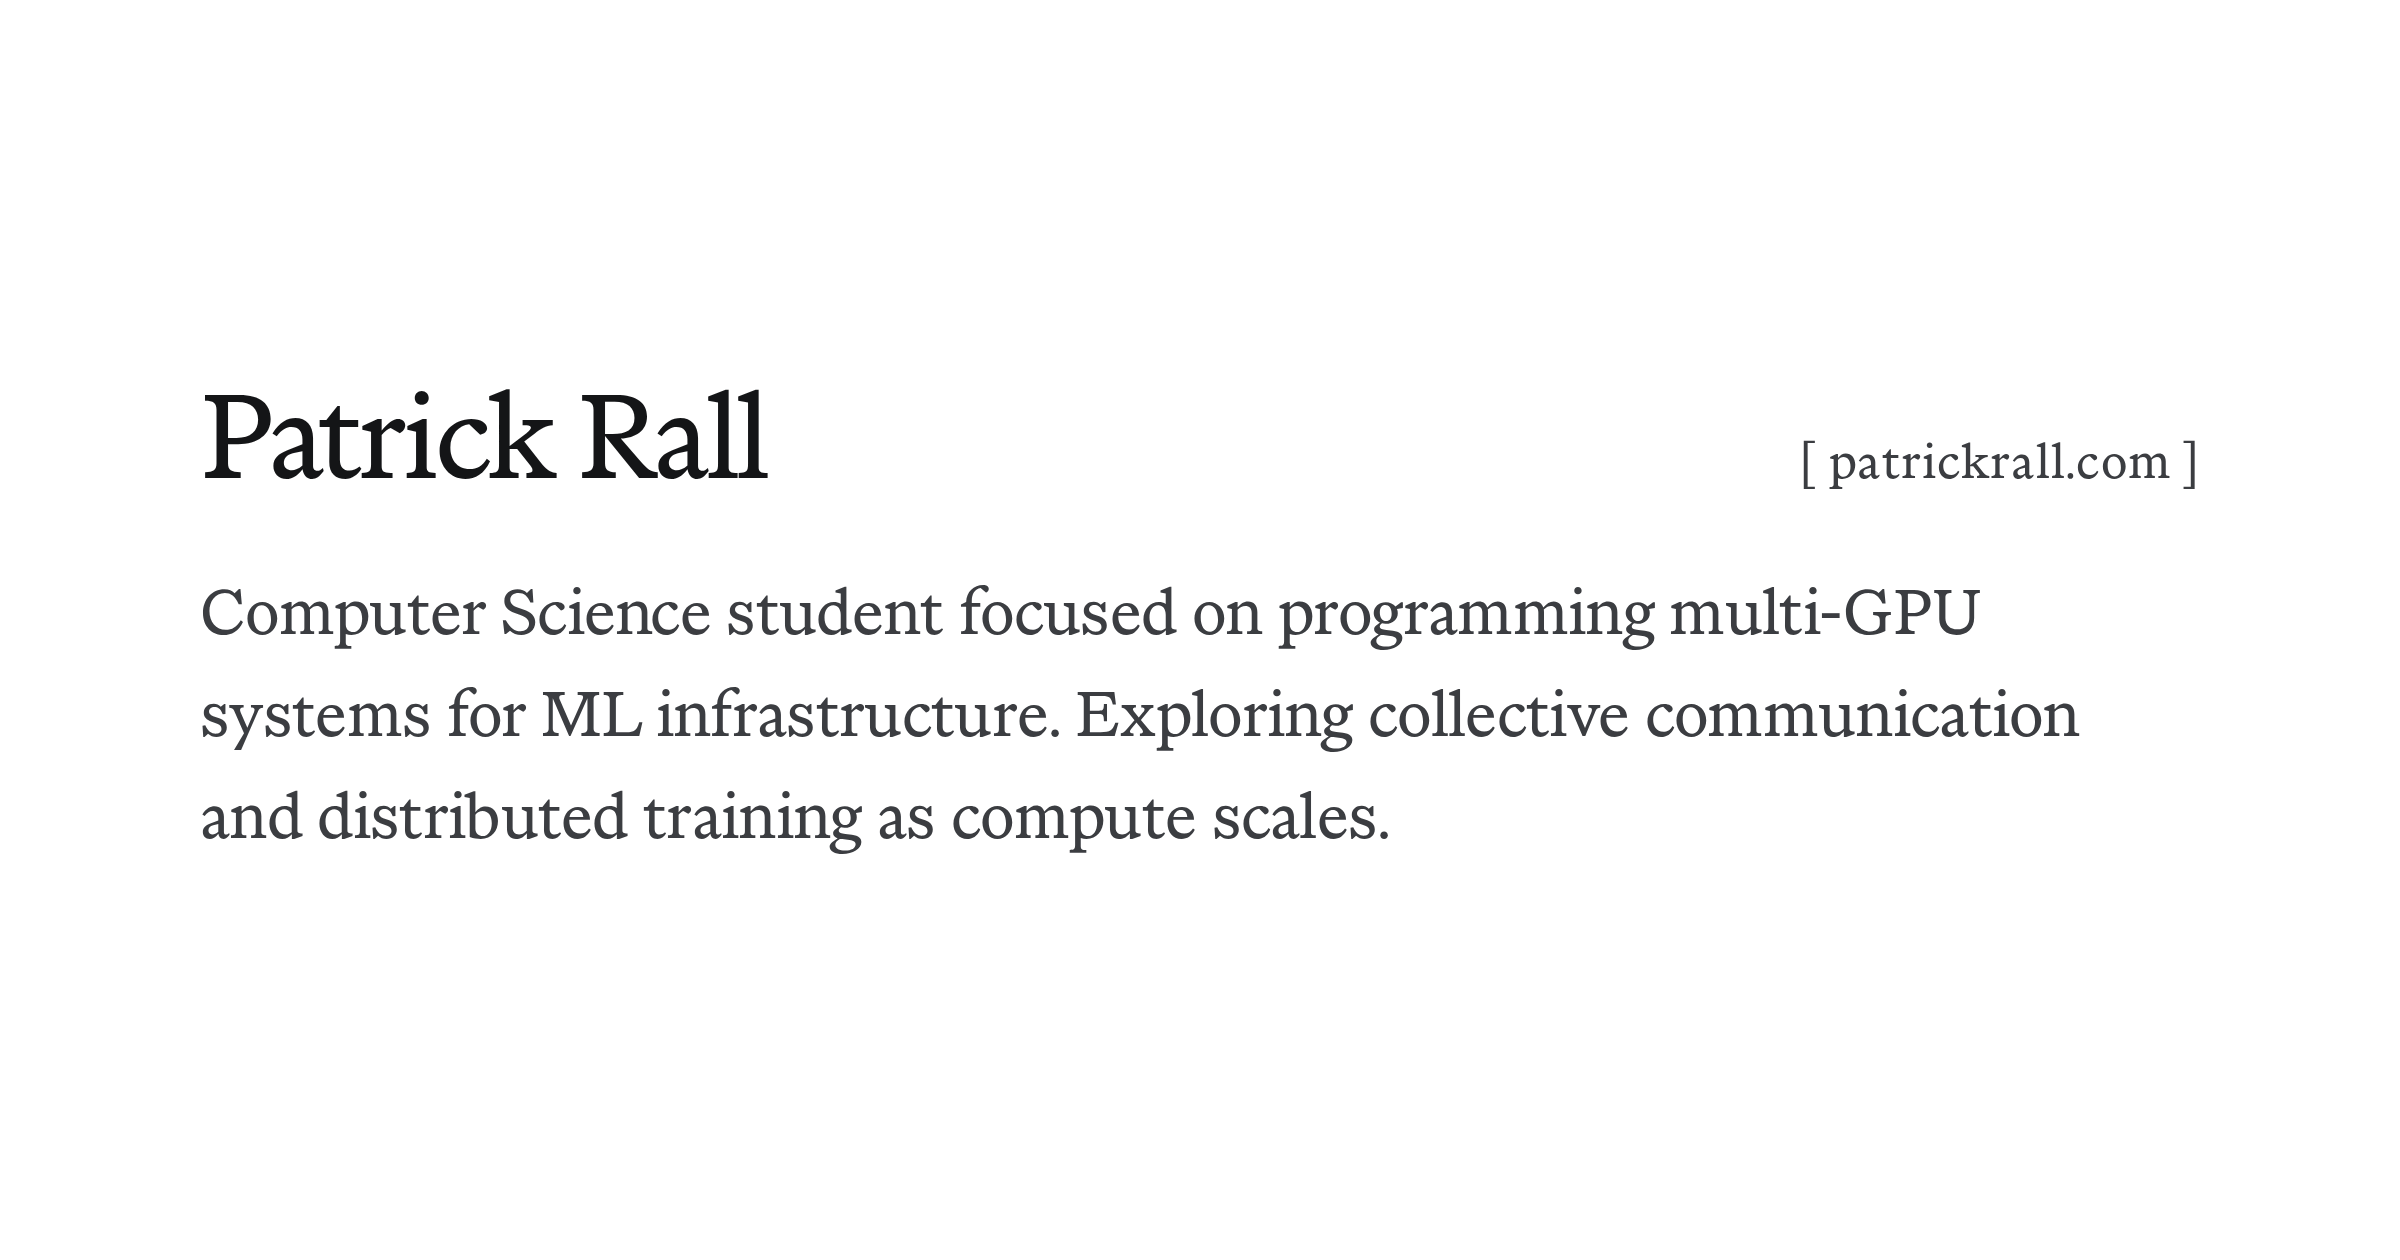
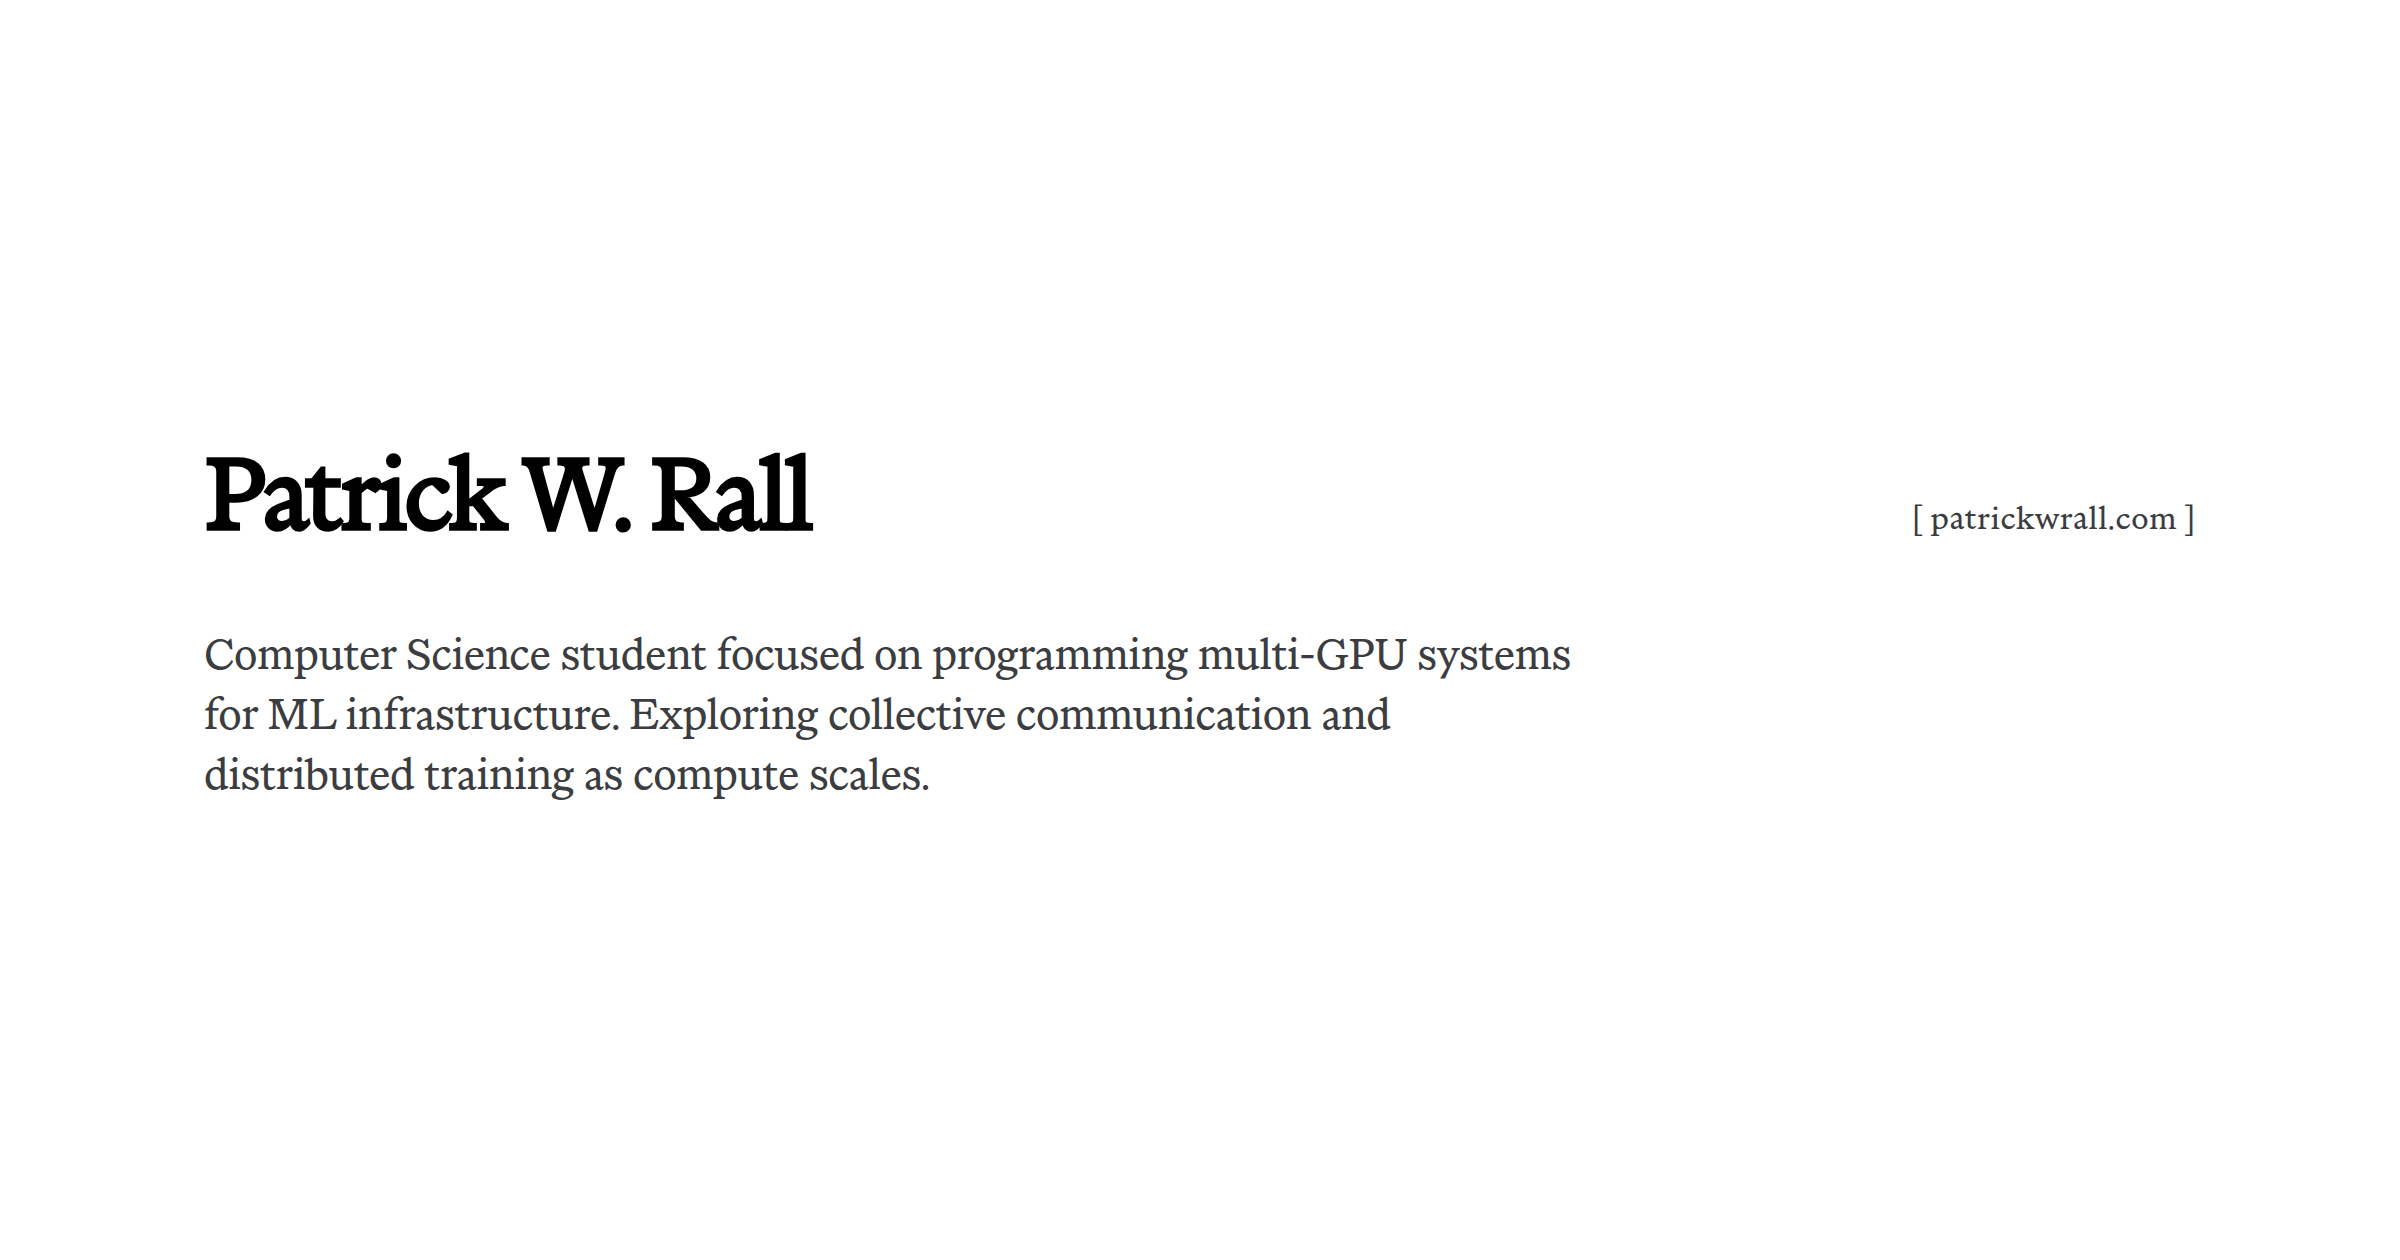
rebrand(site): update identity to Patrick W. Rall / patrickwrall.com
Disambiguates from a more prominent contemporary "Patrick Rall" in
quantum research. Updates site domain, titles, meta/RSS metadata,
LinkedIn link, and OG share image accordingly.

Changed region(s): [[0.0625, 0.4643, 0.875, 0.681], [0.0625, 0.3095, 0.3438, 0.4333], [0.75, 0.3405, 0.9062, 0.4333]]

diff --git a/src/pages/rss.xml.ts b/src/pages/rss.xml.ts
@@ -9,7 +9,7 @@ export async function GET(context: APIContext) {
     .sort((a, b) => b.data.date.getTime() - a.data.date.getTime());
 
   return rss({
-    title: 'Patrick Rall',
+    title: 'Patrick W. Rall',
     description: 'Articles on high-performance computing, GPU programming, and machine learning.',
     site: context.site!,
     items: published.map((post) => ({
